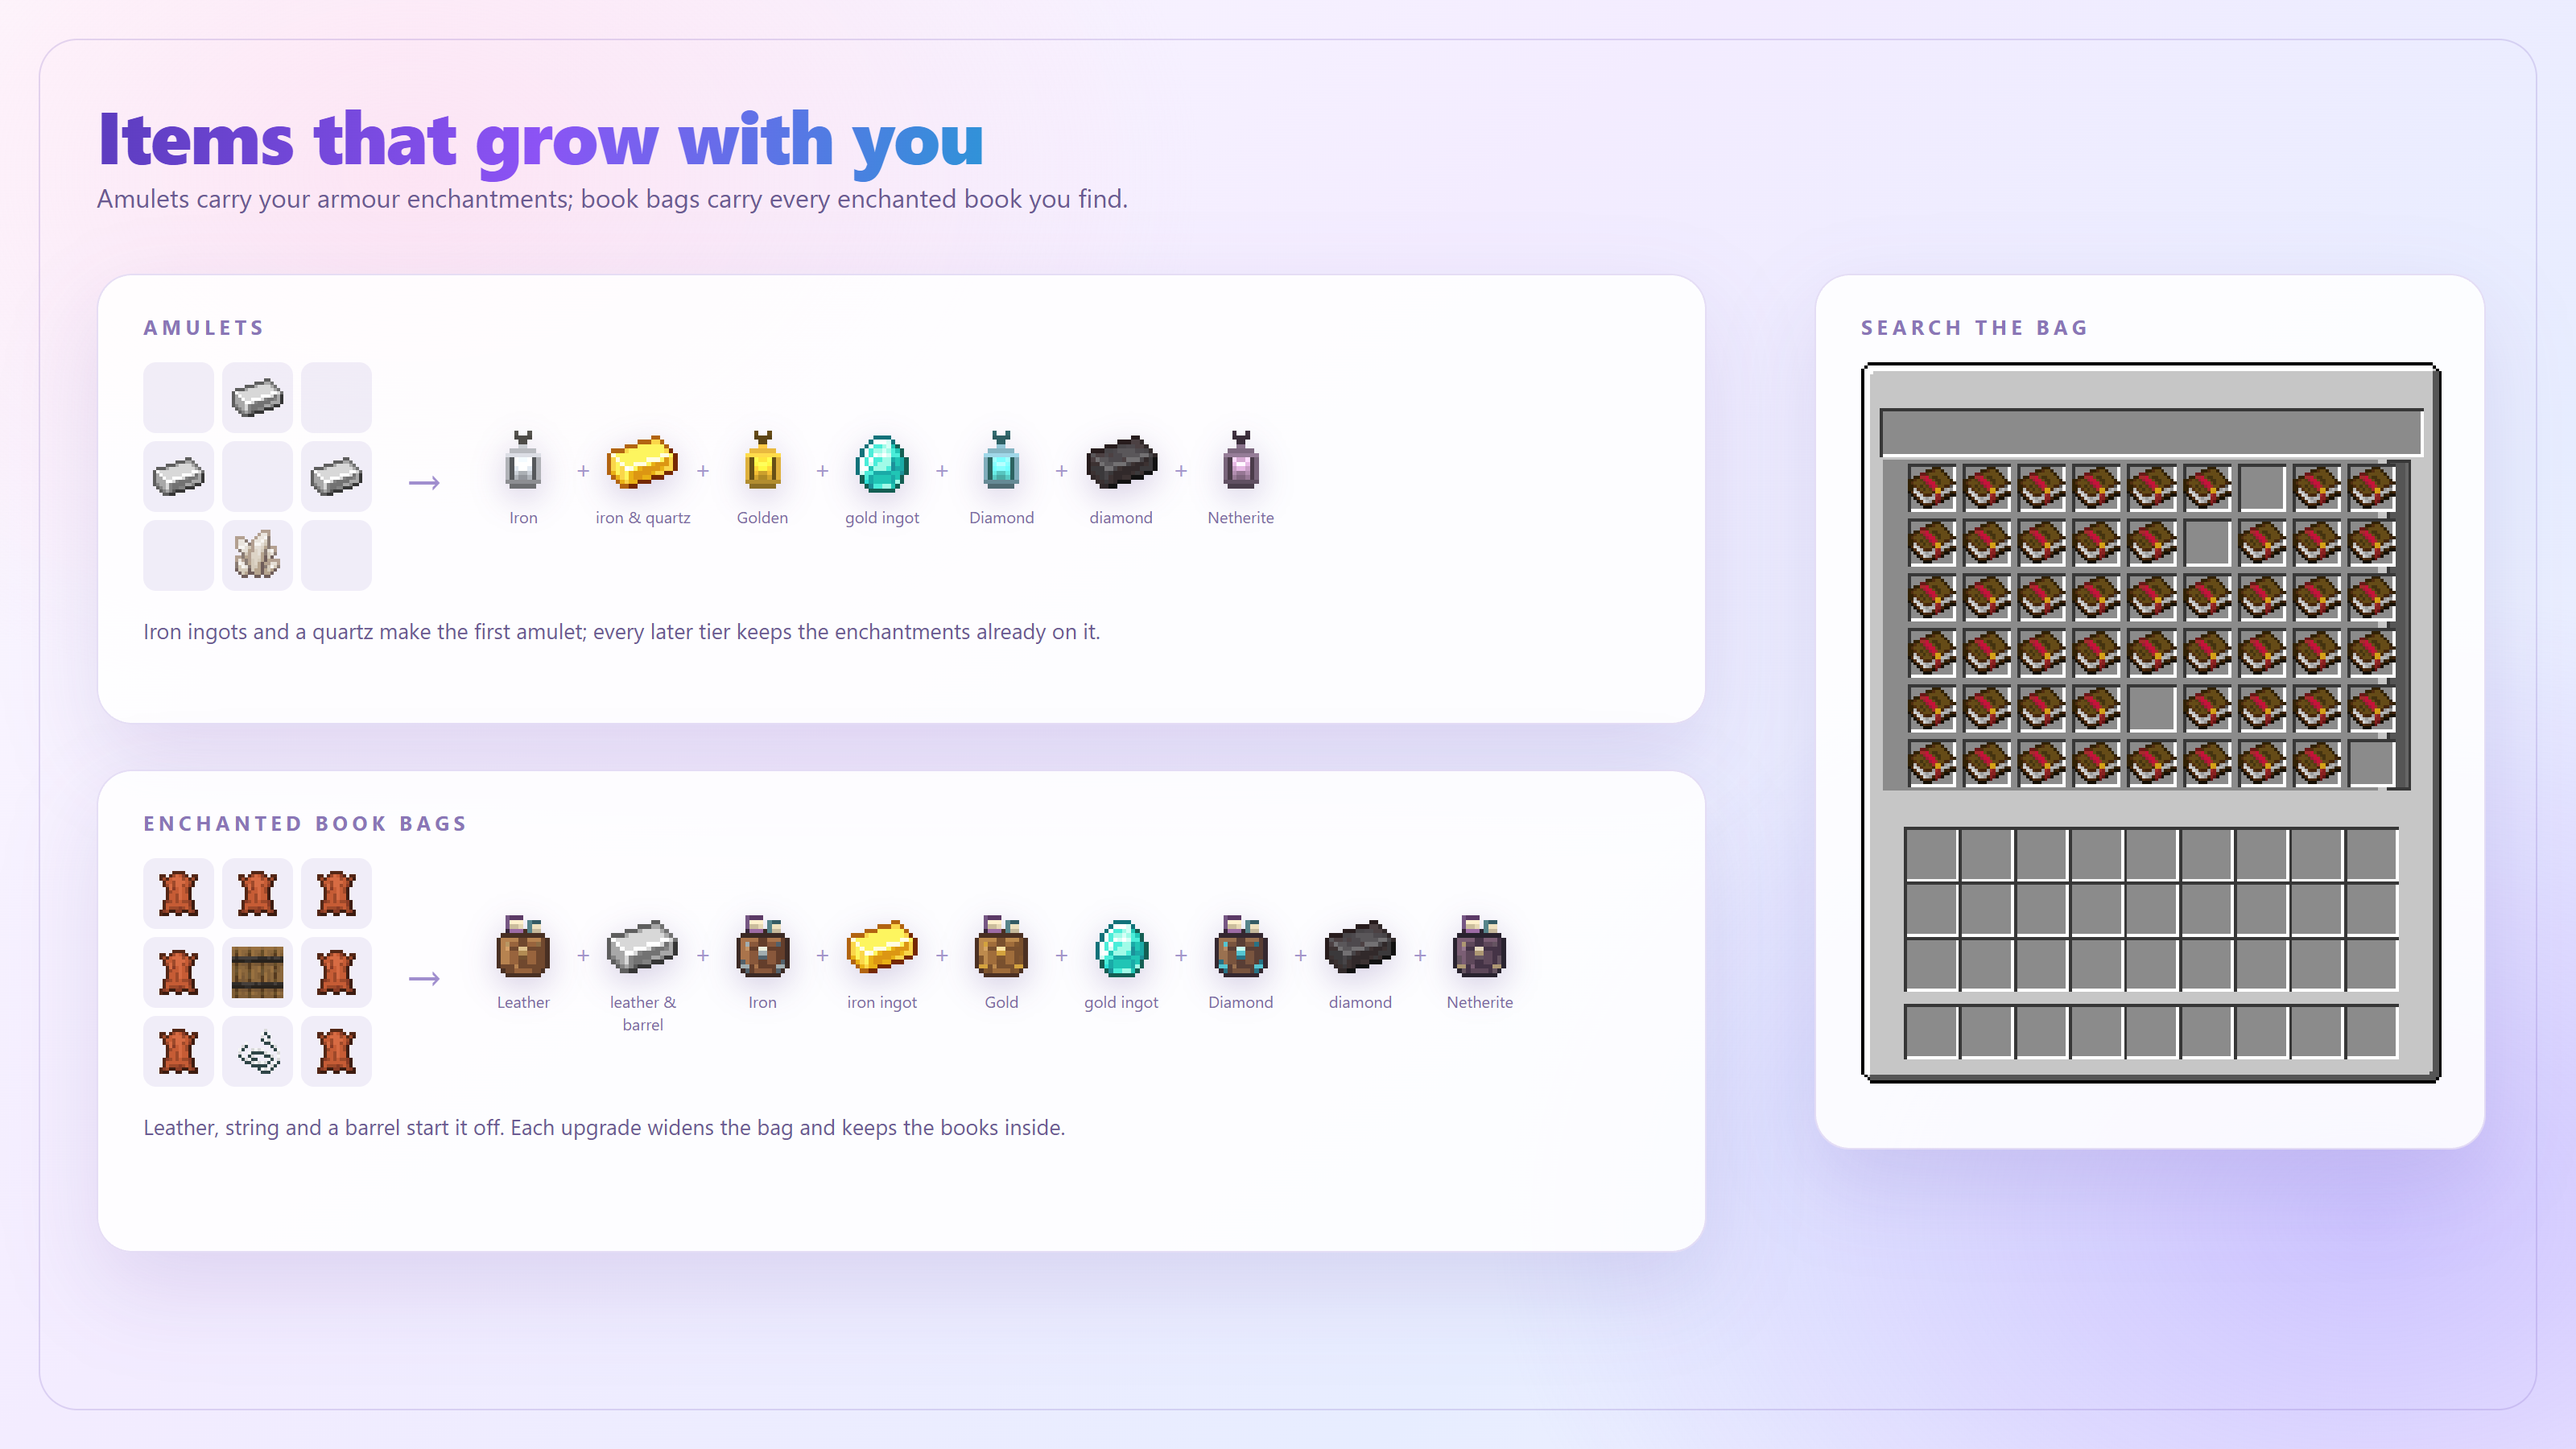
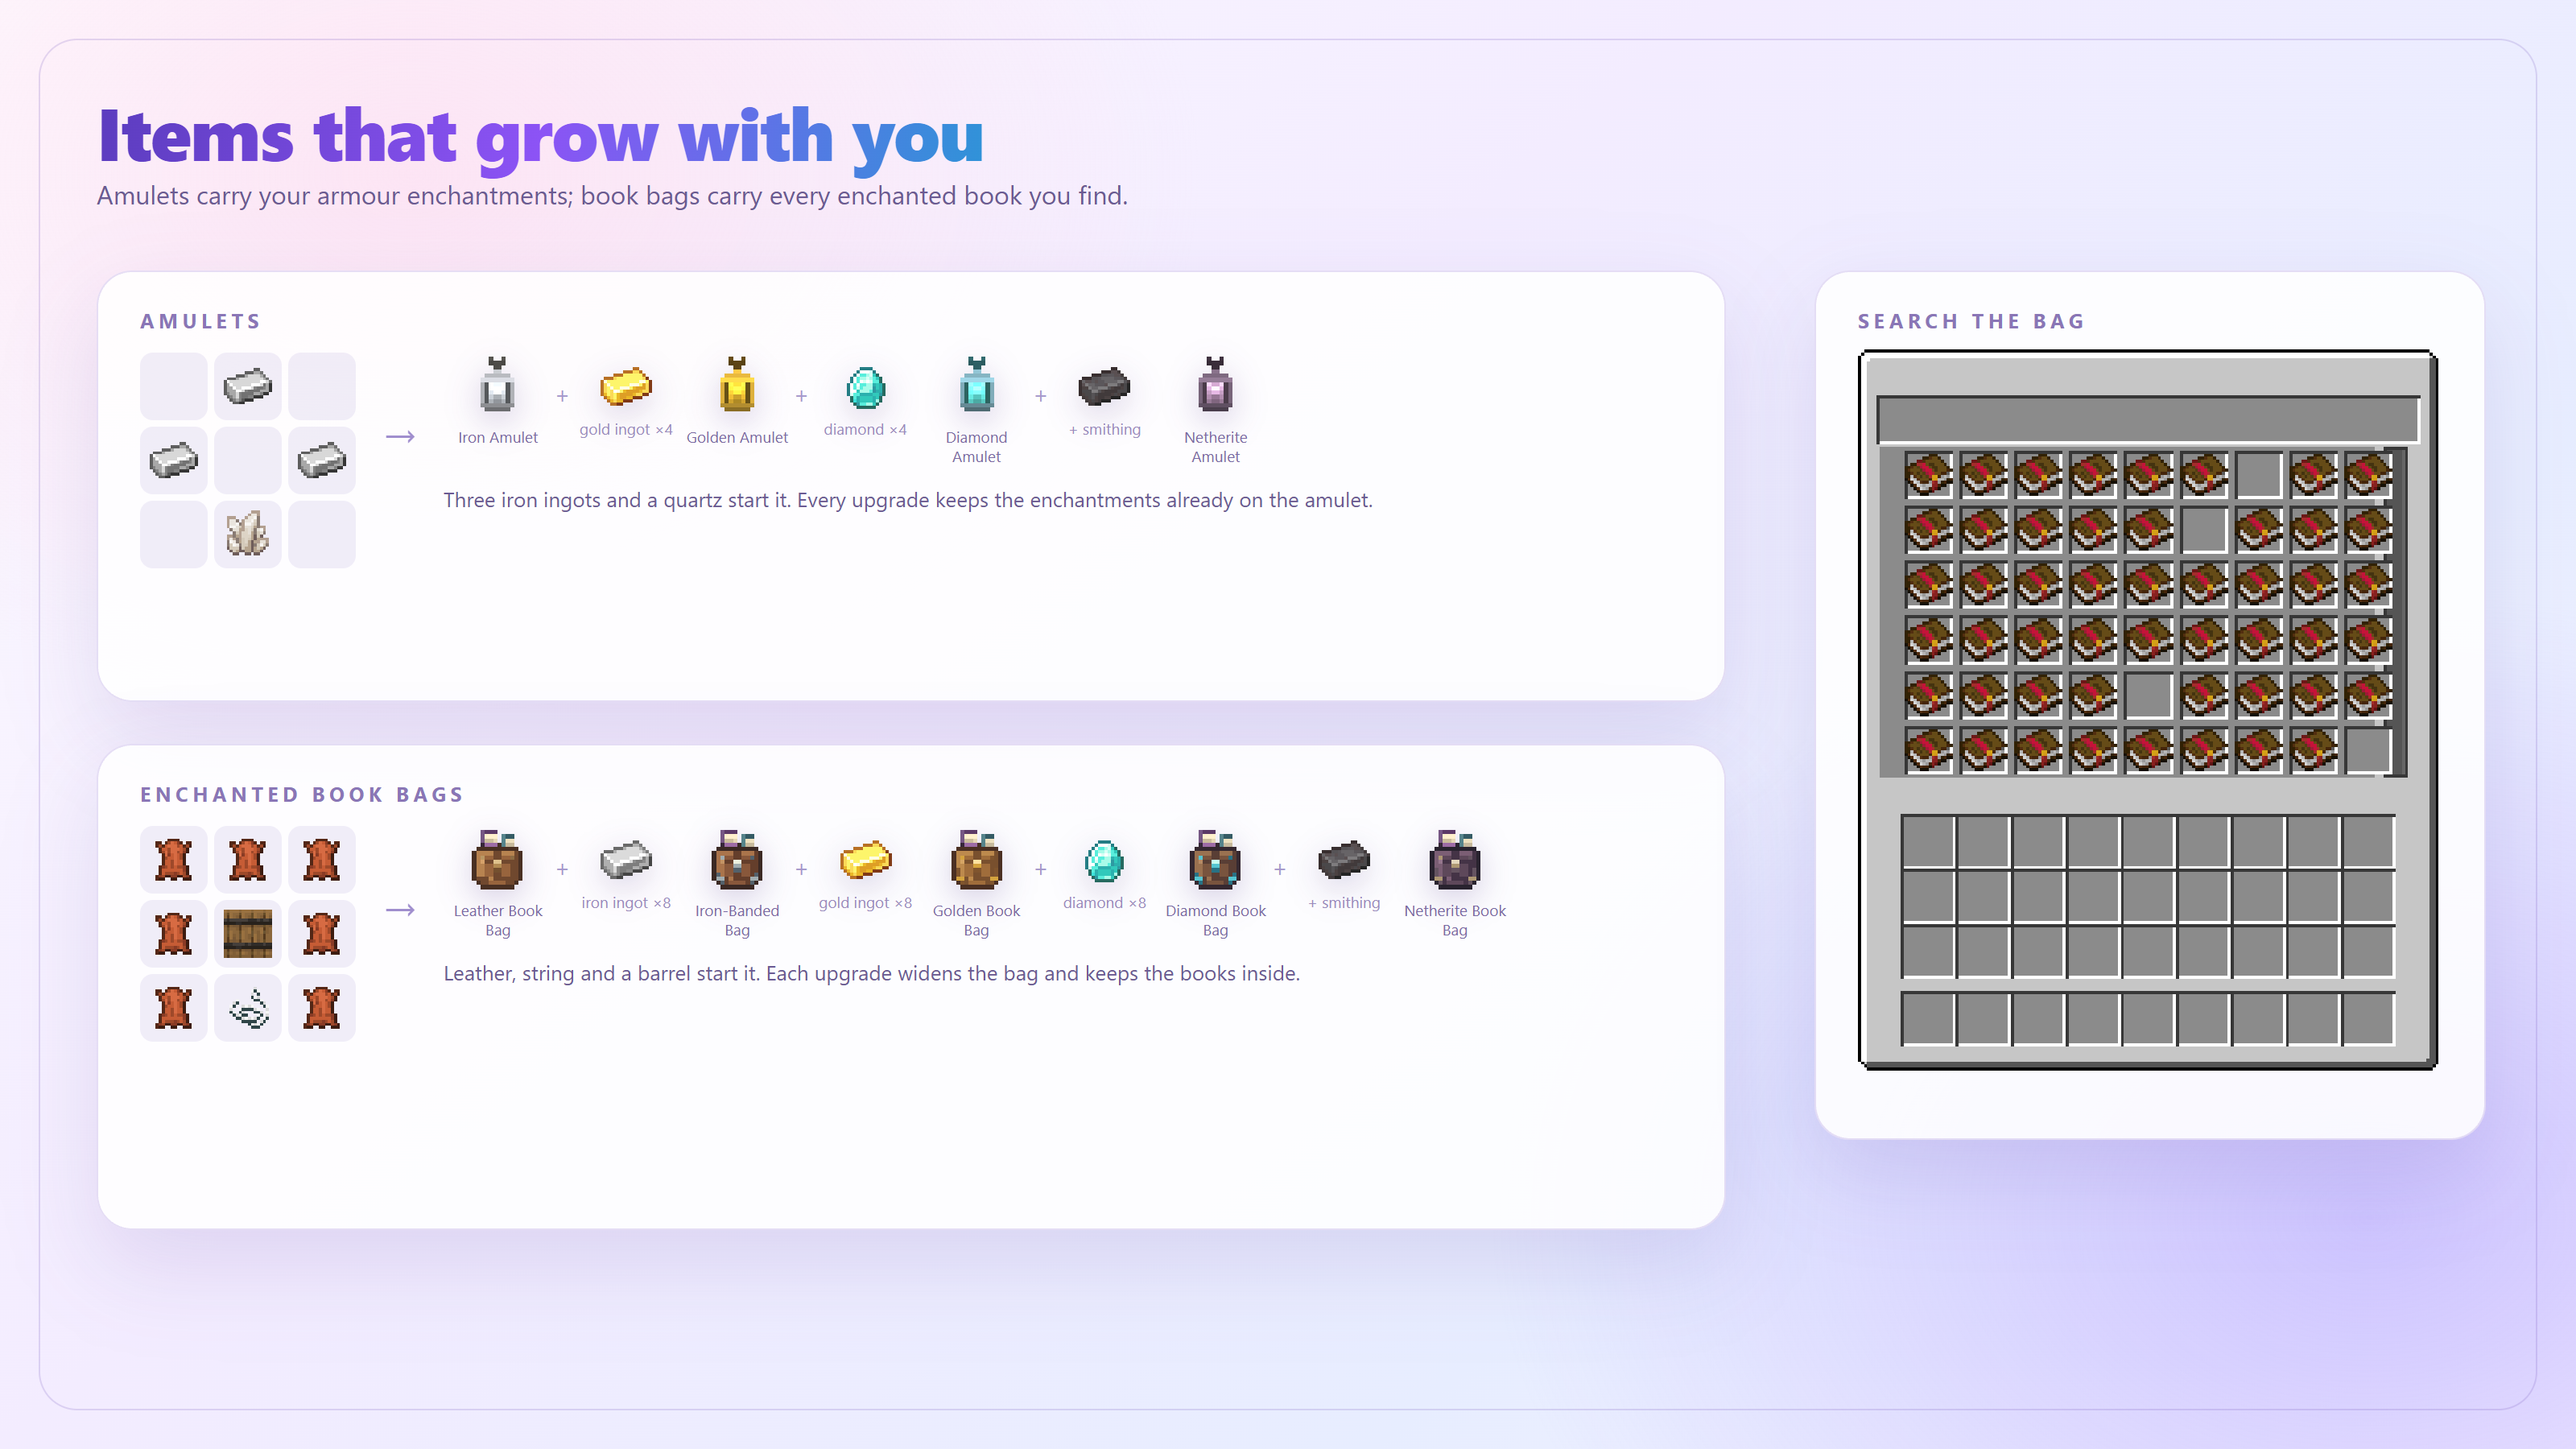
promo/items：修正升级链标签（材料名与物品名对调、补 ×4/×8 数量、按游戏内名 Iron-Banded/Golden Book Bag）

diff --git a/promo/items.html b/promo/items.html
@@ -8,33 +8,34 @@
       radial-gradient(760px 540px at 92% 84%, rgba(160,140,255,.45), transparent 72%),
       linear-gradient(140deg,#fdfbff 0%,#f3ecff 40%,#e7edff 72%,#f8f4ff 100%); }
   .frame { position:absolute; inset:24px; border:1px solid rgba(122,92,190,.20); border-radius:24px; }
-  h1 { position:absolute; left:60px; top:52px; font-size:46px; font-weight:800; letter-spacing:-.02em;
+  h1 { position:absolute; left:60px; top:50px; font-size:46px; font-weight:800; letter-spacing:-.02em;
         background:linear-gradient(100deg,#5b3cbe,#8c53f5 50%,#2f93d8);
         -webkit-background-clip:text; background-clip:text; color:transparent; }
-  .sub { position:absolute; left:60px; top:112px; font-size:16px; color:#6b5a92; }
+  .sub { position:absolute; left:60px; top:110px; font-size:16px; color:#6b5a92; }
   .card { position:absolute; background:rgba(255,255,255,.88); border:1px solid rgba(140,110,210,.22);
-    border-radius:22px; box-shadow:0 22px 54px rgba(90,60,160,.14); padding:24px 28px; }
-  .c1 { left:60px; top:170px; width:1000px; height:280px; }
-  .c2 { left:60px; top:478px; width:1000px; height:300px; }
-  .c3 { right:56px; top:170px; width:417px; height:544px; }
+    border-radius:22px; box-shadow:0 22px 54px rgba(90,60,160,.14); padding:22px 26px; }
+  .c1 { left:60px; top:168px; width:1012px; height:268px; }
+  .c2 { left:60px; top:462px; width:1012px; height:302px; }
+  .c3 { right:56px; top:168px; width:417px; height:540px; }
   .h4 { font-size:12.5px; letter-spacing:.22em; text-transform:uppercase; color:#8a76b6; font-weight:700; }
-  .row { display:flex; align-items:center; gap:20px; margin-top:14px; }
-  .grid3 { display:grid; grid-template-columns:repeat(3,44px); gap:5px; }
-  .cell { width:44px; height:44px; border-radius:8px; background:rgba(120,95,190,.10);
+  .row { display:flex; align-items:flex-start; gap:16px; margin-top:12px; }
+  .grid3 { display:grid; grid-template-columns:repeat(3,42px); gap:4px; }
+  .cell { width:42px; height:42px; border-radius:8px; background:rgba(120,95,190,.10);
     display:flex; align-items:center; justify-content:center; }
-  .cell img { width:32px; height:32px; image-rendering:pixelated; }
-  .arrow { font-size:28px; color:#a08ece; }
-  .chain { display:flex; align-items:flex-start; gap:2px; }
-  .step { display:flex; flex-direction:column; align-items:center; width:60px; }
-  .step img { width:44px; height:44px; image-rendering:pixelated;
+  .cell img { width:30px; height:30px; image-rendering:pixelated; }
+  .arrow { font-size:26px; color:#a08ece; margin-top:32px; }
+  .chain { display:flex; align-items:flex-start; gap:1px; }
+  .step { display:flex; flex-direction:column; align-items:center; width:68px; }
+  .step img { width:42px; height:42px; image-rendering:pixelated;
     filter:drop-shadow(0 6px 10px rgba(70,40,130,.22)); }
-  .step span { margin-top:5px; font-size:10px; color:#7a6aa4; text-align:center; min-height:14px; }
-  .plus { font-size:15px; color:#a597cc; margin-top:16px; }
-  .note { margin-top:14px; font-size:13.5px; line-height:1.6; color:#6b5a92; }
-  .gui { position:relative; margin-top:14px;
+  .step.mat img { width:32px; height:32px; margin-top:5px; opacity:.92; }
+  .step span { margin-top:5px; font-size:9.5px; color:#7a6aa4; text-align:center; line-height:1.25; }
+  .step.mat span { color:#9a8cbd; }
+  .plus { font-size:14px; color:#a597cc; margin-top:16px; }
+  .note { margin-top:10px; font-size:13px; line-height:1.5; color:#6b5a92; }
+  .gui { position:relative; margin-top:10px;
     background-size:486px 486px; background-repeat:no-repeat; image-rendering:pixelated;
-    width:361px; height:448px;
[2 lines of base64/hex data omitted]
   .slot { position:absolute; background:#8b8b8b; box-shadow:inset 2px 2px 0 #373737, inset -2px -2px 0 #ffffff; }
   .sbook { position:absolute; image-rendering:pixelated; }
 </style></head><body>
@@ -45,21 +46,25 @@
   <div class="card c1">
     <div class="h4">Amulets</div>
     <div class="row">
[1 lines of base64/hex data omitted]
-      <span class="arrow">→</span>
[2 lines of base64/hex data omitted]
+      <span class="arrow">&#8594;</span>
+      <div>
[1 lines of base64/hex data omitted]
+        <div class="note">Three iron ingots and a quartz start it. Every upgrade keeps the enchantments already on the amulet.</div>
+      </div>
     </div>
-    <div class="note">Iron ingots and a quartz make the first amulet; every later tier keeps the enchantments already on it.</div>
   </div>
 
   <div class="card c2">
     <div class="h4">Enchanted Book Bags</div>
     <div class="row">
[1 lines of base64/hex data omitted]
-      <span class="arrow">→</span>
[2 lines of base64/hex data omitted]
+      <span class="arrow">&#8594;</span>
+      <div>
[1 lines of base64/hex data omitted]
+        <div class="note">Leather, string and a barrel start it. Each upgrade widens the bag and keeps the books inside.</div>
+      </div>
     </div>
-    <div class="note">Leather, string and a barrel start it off. Each upgrade widens the bag and keeps the books inside.</div>
   </div>
 
   <div class="card c3">
